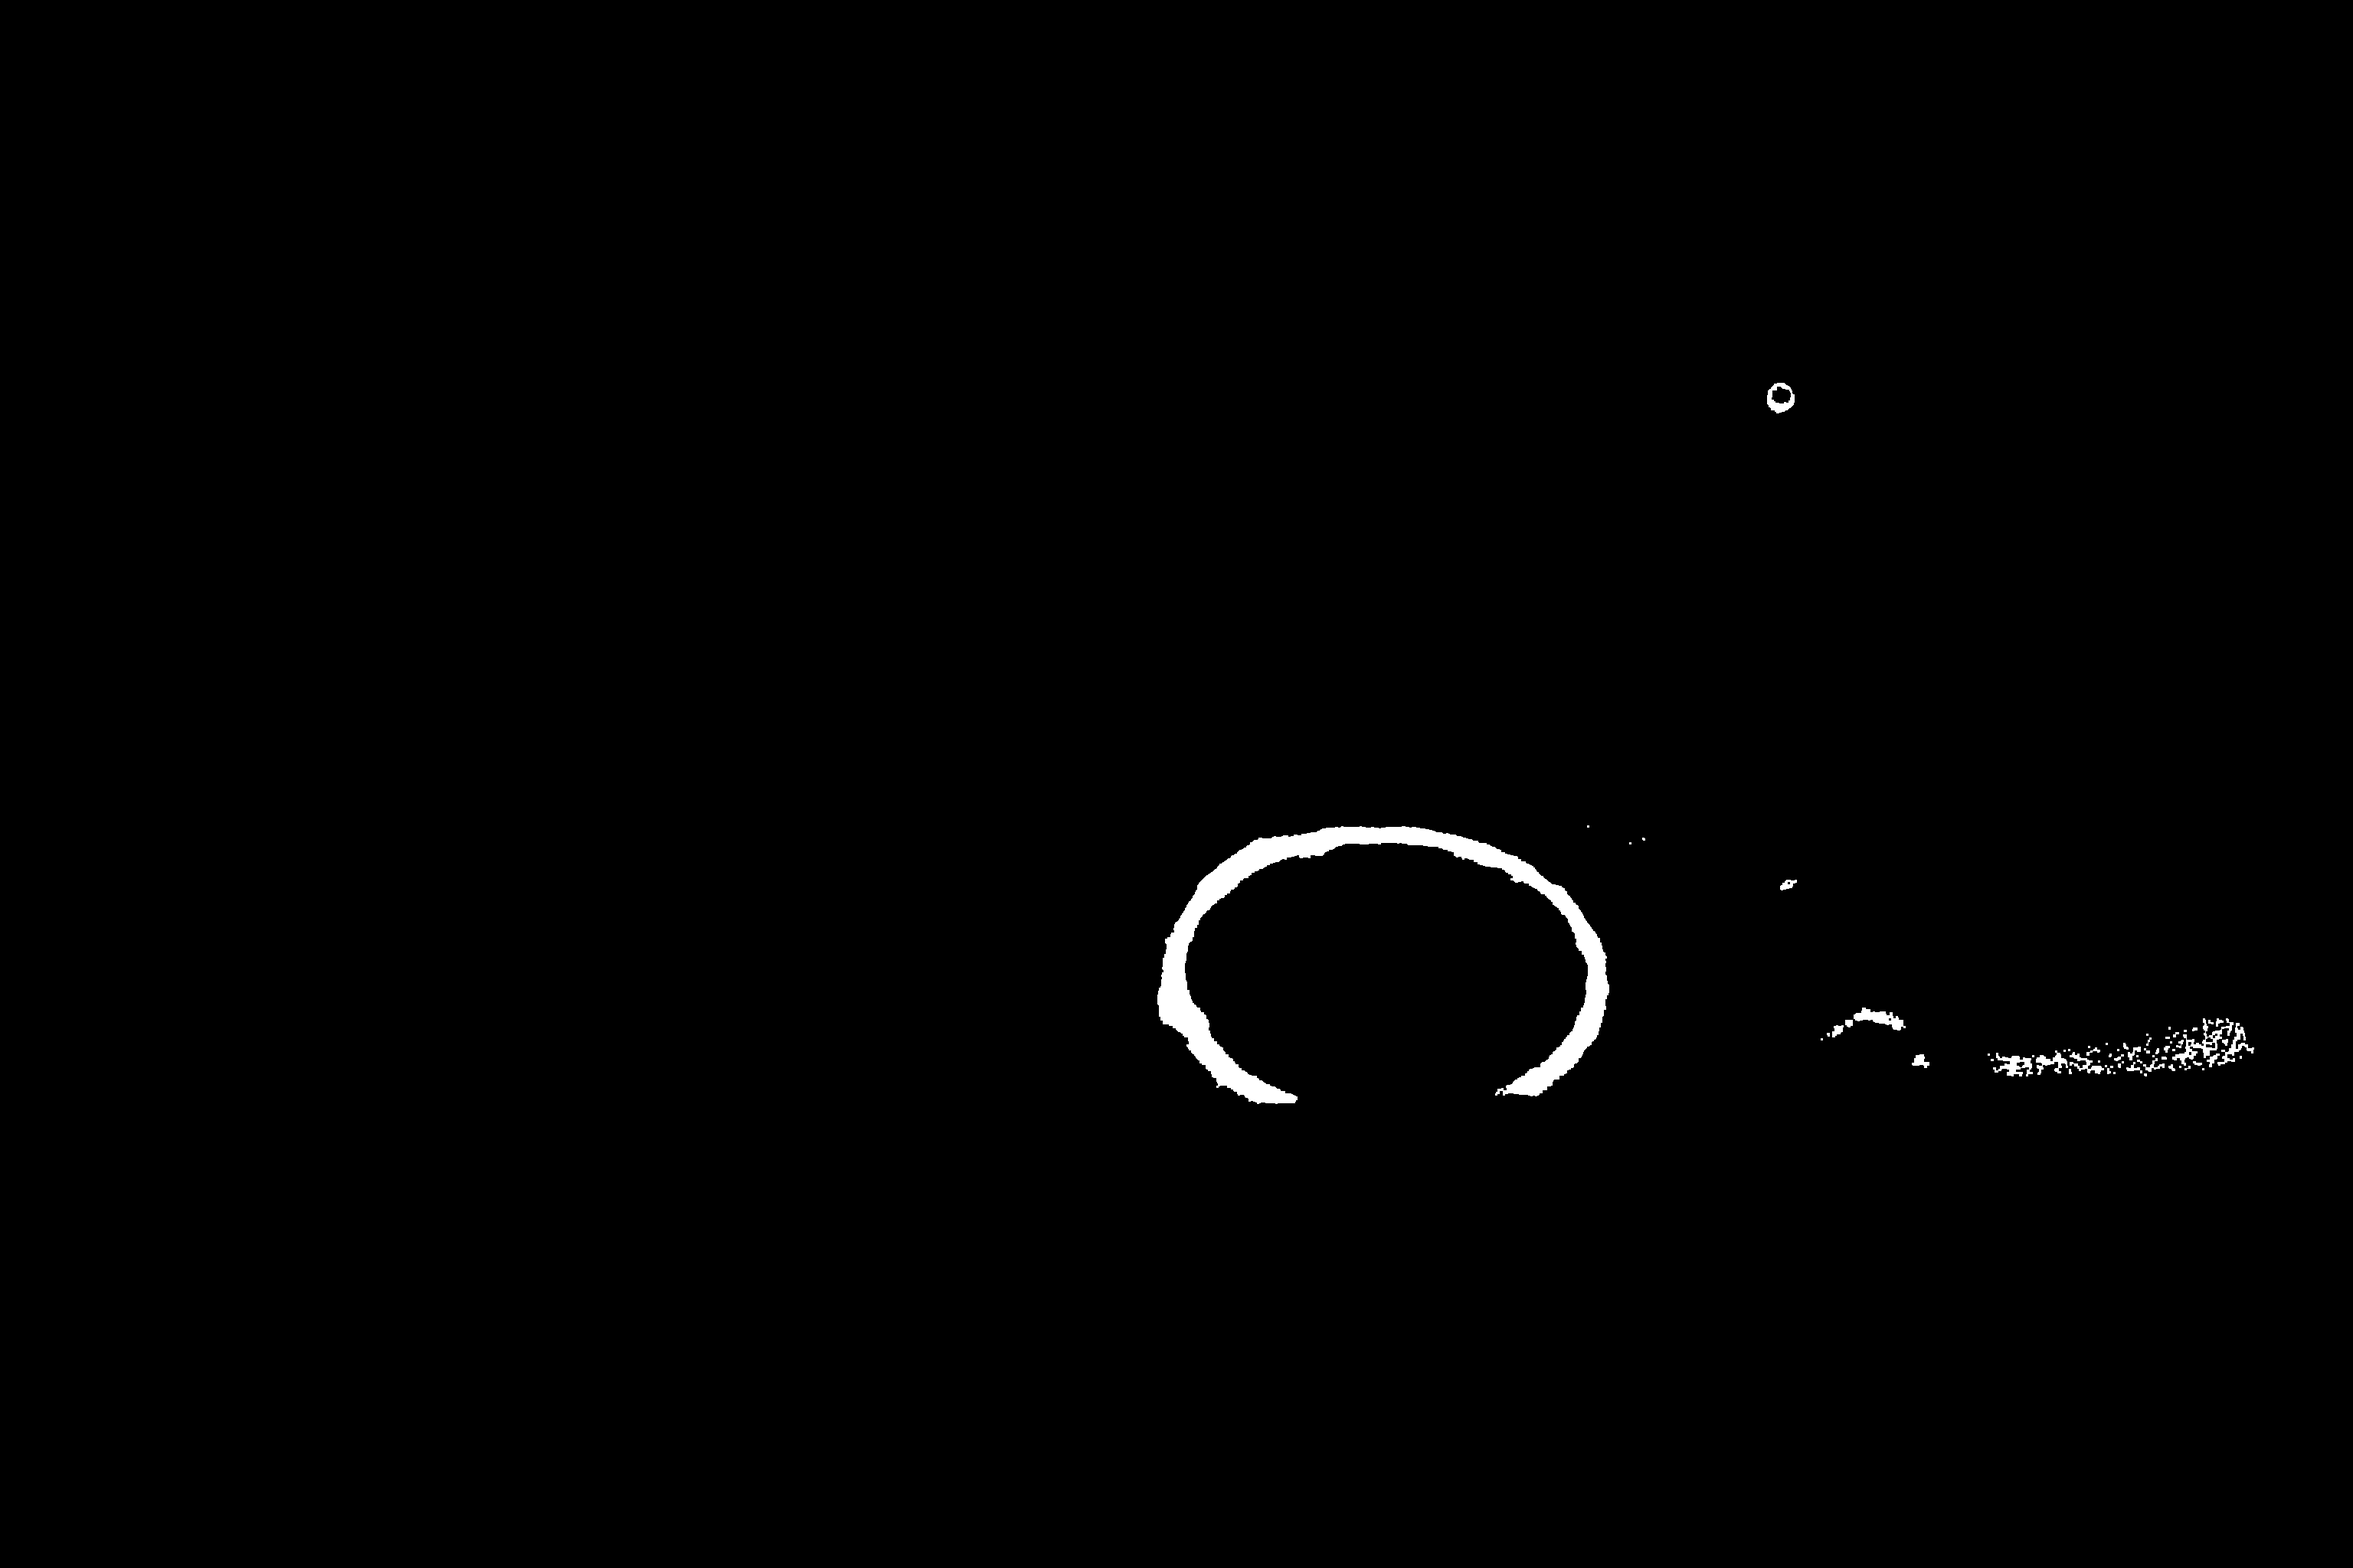
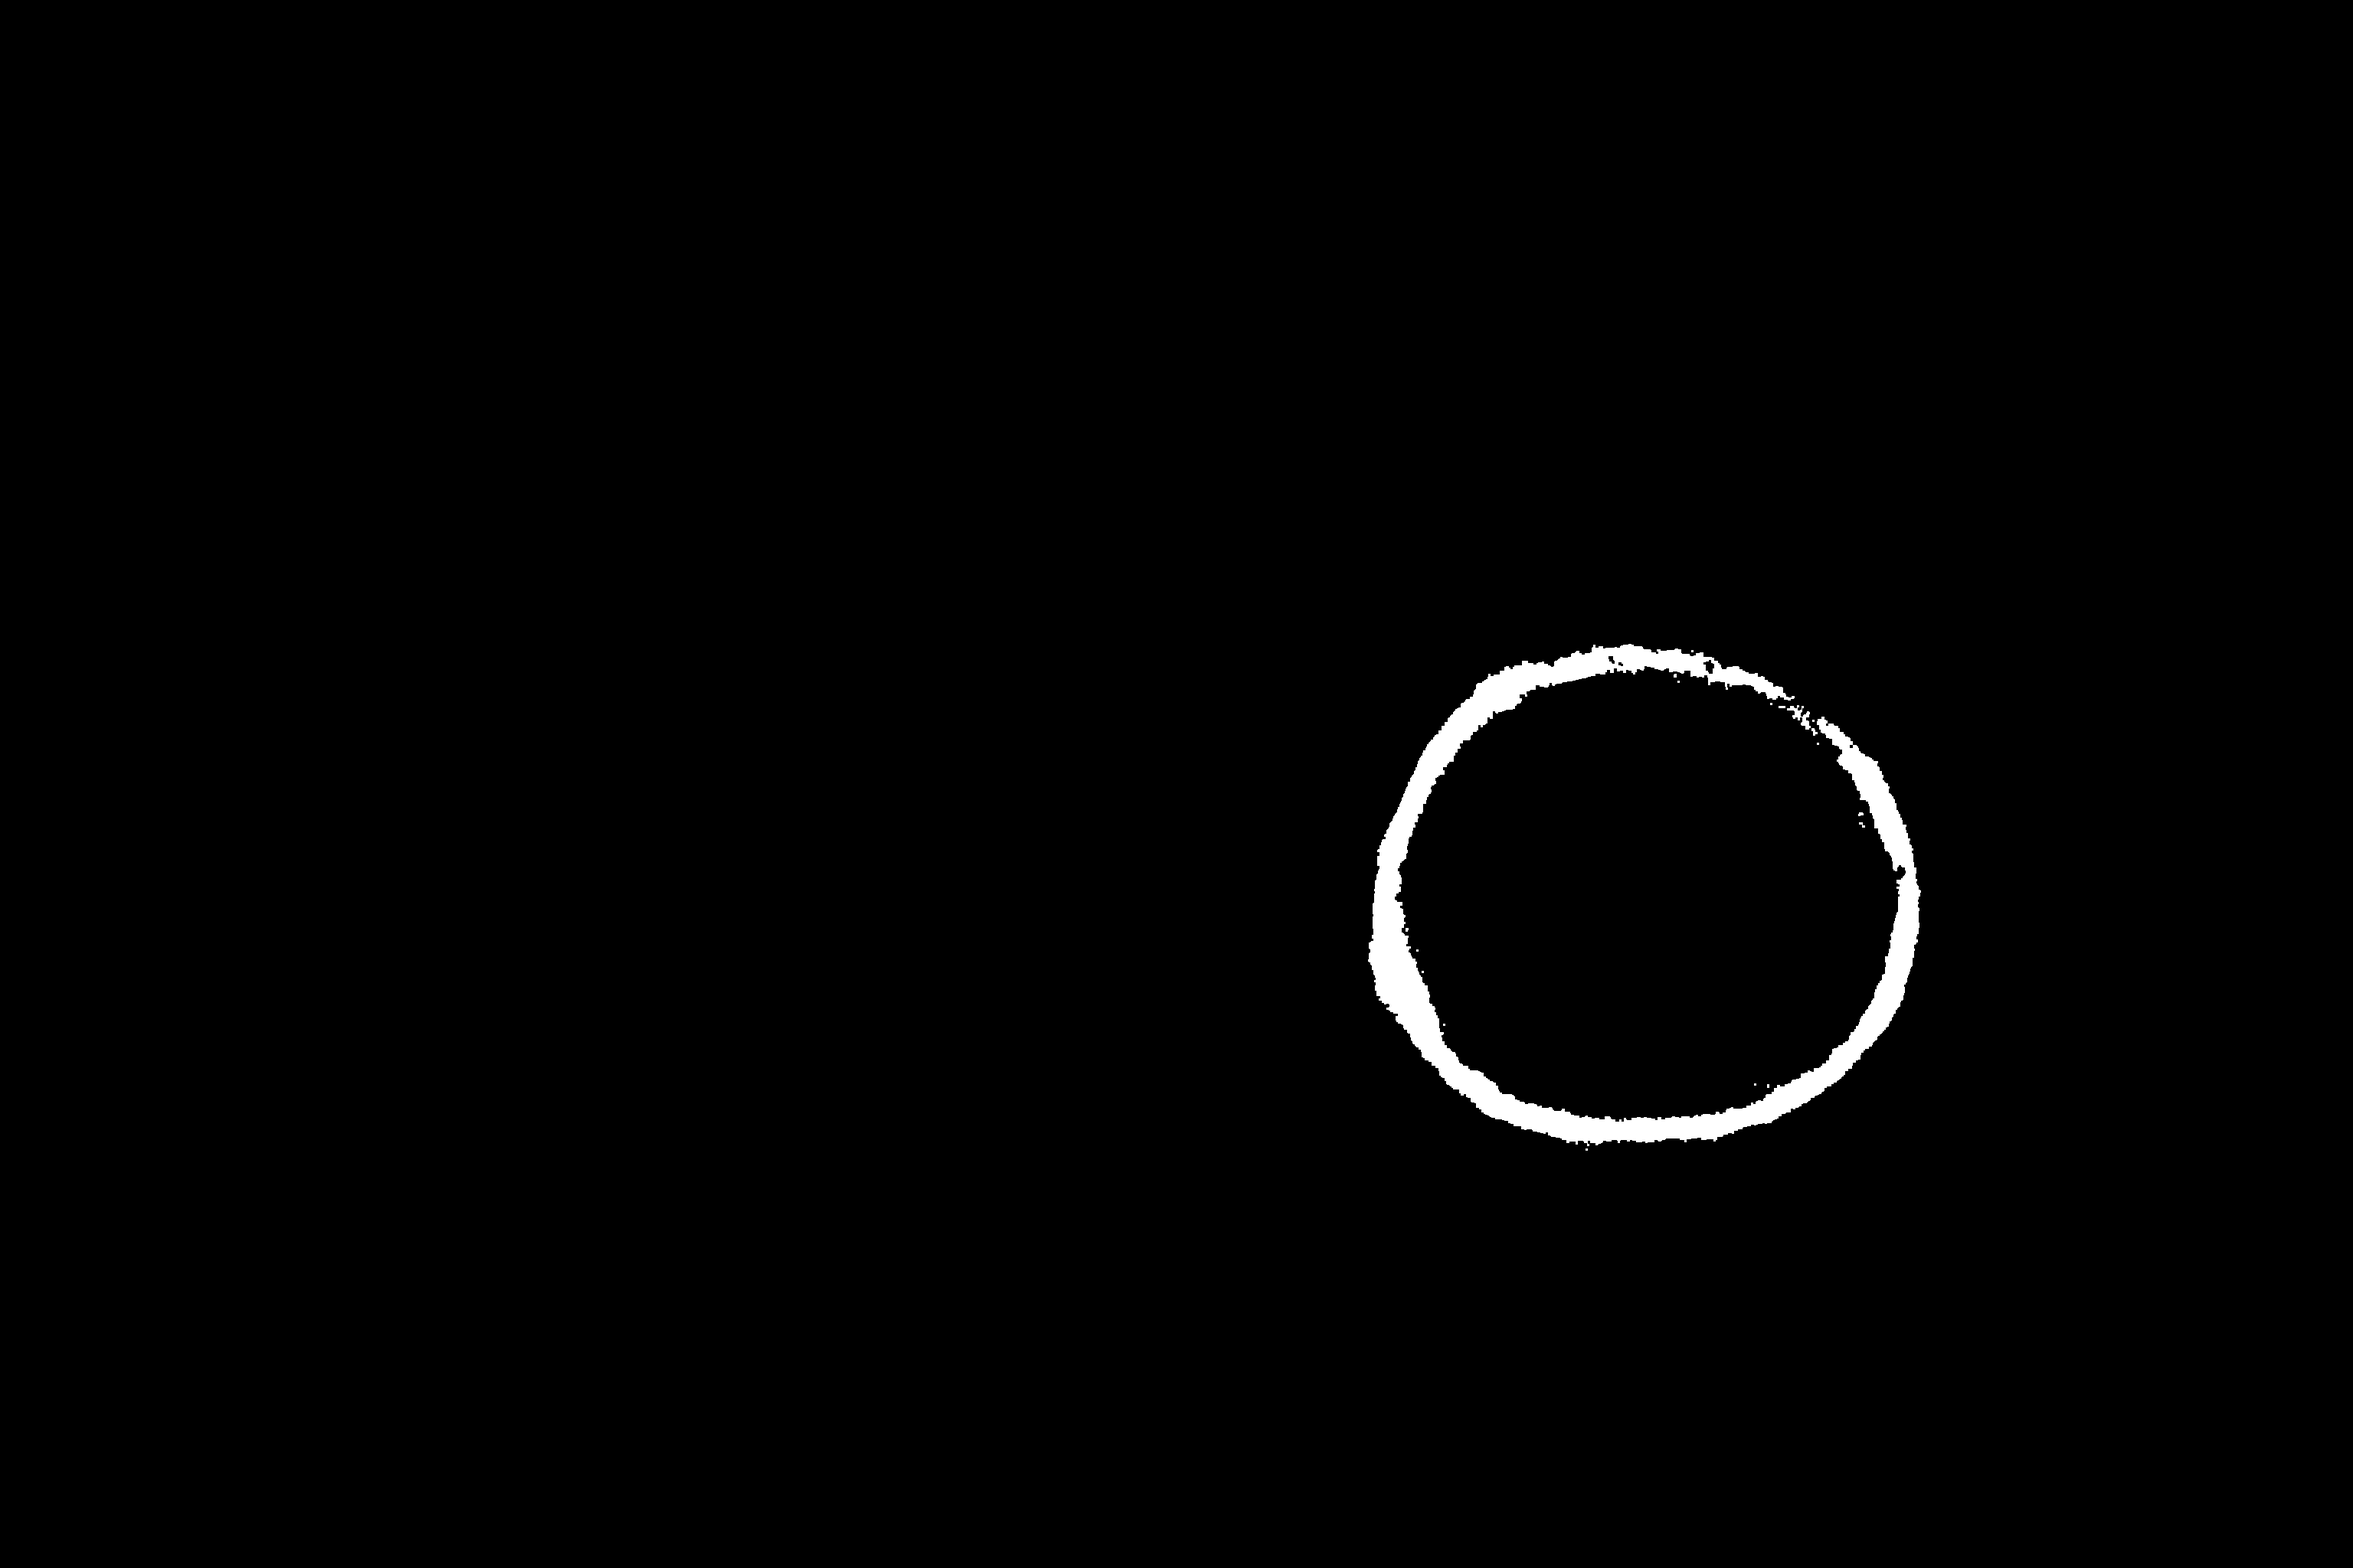
Final demo - the executed file is in scripts/planar_throw_final.py

diff --git a/scripts/planar_throw_final.py b/scripts/planar_throw_final.py
@@ -85,15 +85,15 @@ def solve_planar_throw(target_pos):
     # Format: [q2, q4, q6, T]
     initial_guesses = [
         np.array([0.0, -1.5, 1.5, 0.5]),   # 1. Default: Neutral
-        np.array([-0.5, -1.0, 1.0, 0.4]),  # 2. Cocked back: Faster throw
-        np.array([0.5, -1.5, 0.5, 0.6]),   # 3. Forward release: Higher arc
-        np.array([0.0, -1.0, 2.0, 0.3]),   # 4. Different elbow config
-        np.array([-0.8, -0.8, 0.8, 0.4]),  # 5. More aggressive back swing
-        np.array([0.2, -1.8, 1.8, 0.7]),   # 6. High lob
-        np.array([-0.3, -1.2, 1.8, 0.5]),  # 7. New guess
-        np.array([0.3, -1.6, 1.2, 0.6]),   # 8. New guess
-        np.array([-0.6, -0.9, 1.5, 0.45]), # 9. New guess
-        np.array([0.1, -1.4, 2.0, 0.55])   # 10. New guess
+        # np.array([-0.5, -1.0, 1.0, 0.4]),  # 2. Cocked back: Faster throw
+        # np.array([0.5, -1.5, 0.5, 0.6]),   # 3. Forward release: Higher arc
+        # np.array([0.0, -1.0, 2.0, 0.3]),   # 4. Different elbow config
+        # np.array([-0.8, -0.8, 0.8, 0.4]),  # 5. More aggressive back swing
+        # np.array([0.2, -1.8, 1.8, 0.7]),   # 6. High lob
+        # np.array([-0.3, -1.2, 1.8, 0.5]),  # 7. New guess
+        # np.array([0.3, -1.6, 1.2, 0.6]),   # 8. New guess
+        # np.array([-0.6, -0.9, 1.5, 0.45]), # 9. New guess
+        # np.array([0.1, -1.4, 2.0, 0.55])   # 10. New guess
     ]
     
     # Bounds
@@ -466,13 +466,17 @@ if __name__ == "__main__":
     detector.initialize_camera()
     x, y = detector.get_ball_position(display=False) 
     # Test case
-    target = [x,y,0.0]
+    target = [x/ 1000, y/ 1000, 0.0] 
+    
+    if(target[1] > 1.2):
+        target[1] = 1.2
+    
+    # target = [1.212, 0.153, 0.0]
+    # target = [1.128, -0.41, 0.0]
+    # dis = 1.2
+    # th = - np.pi / 12
+    # target = [dis*np.cos(th), dis*np.sin(th), 0]
     print(target)
-    target = [1.212, 0.153, 0.0]
-    target = [1.128, -0.41, 0.0]
-    dis = 1.2
-    th = - np.pi / 12
-    target = [dis*np.cos(th), dis*np.sin(th), 0]
     if len(sys.argv) > 3:
         target = [float(sys.argv[1]), float(sys.argv[2]), float(sys.argv[3])]
 

diff --git a/scripts/HIK/ball_detector.py b/scripts/HIK/ball_detector.py
@@ -286,29 +286,29 @@ class BallDetector:
             print("[INFO] 相机资源已释放")
 
 # # -------------------- 主函数（测试用） --------------------
-# def main():
-#     """主函数，用于测试"""
-#     detector = BallDetector()
+def main():
+    """主函数，用于测试"""
+    detector = BallDetector()
     
-#     try:
-#         # 初始化相机
-#         if not detector.initialize_camera():
-#             return
+    try:
+        # 初始化相机
+        if not detector.initialize_camera():
+            return
         
-#         # 获取小球位置（显示图像窗口）
-#         relative_x, relative_y = detector.get_ball_position(display=True)
+        # 获取小球位置（显示图像窗口）
+        relative_x, relative_y = detector.get_ball_position(display=True)
         
-#         if relative_x is not None and relative_y is not None:
-#             print(f"[RESULT] 最终结果: relative_x = {relative_x:.2f}, relative_y = {relative_y:.2f}")
-#         else:
-#             print("[RESULT] 未获取到有效结果")
+        if relative_x is not None and relative_y is not None:
+            print(f"[RESULT] 最终结果: relative_x = {relative_x:.2f}, relative_y = {relative_y:.2f}")
+        else:
+            print("[RESULT] 未获取到有效结果")
             
-#     except Exception as e:
-#         print(f"[ERROR] 程序运行出错: {e}")
+    except Exception as e:
+        print(f"[ERROR] 程序运行出错: {e}")
         
-#     finally:
-#         # 确保资源被释放
-#         detector.close()
+    finally:
+        # 确保资源被释放
+        detector.close()
 
-# if __name__ == "__main__":
-#     main()
+if __name__ == "__main__":
+    main()

diff --git a/scripts/HIK/MvCameraControl_class.py b/scripts/HIK/MvCameraControl_class.py
@@ -41,12 +41,11 @@ def check_sys_and_update_dll():
     
     if currentsystem == 'Windows':
         #print(" current is windows system .")
-        MvCamCtrldllPath = "D:/sdcwork/franka_sdc/scripts/HIK/lib/MvCameraControl.dll"
-        MvCamCtrldll = ctypes.cdll.LoadLibrary(MvCamCtrldllPath)
-        # if "winmode" in ctypes.WinDLL.__init__.__code__.co_varnames:
-        #     MvCamCtrldll = WinDLL(MvCamCtrldllPath, winmode=0)
-        # else:
-        #     MvCamCtrldll = WinDLL(MvCamCtrldllPath)
+        MvCamCtrldllPath = "MvCameraControl.dll"
+        if "winmode" in ctypes.WinDLL.__init__.__code__.co_varnames:
+            MvCamCtrldll = WinDLL(MvCamCtrldllPath, winmode=0)
+        else:
+            MvCamCtrldll = WinDLL(MvCamCtrldllPath)
     else:
         architecture = platform.machine()
         if architecture == 'aarch64':

diff --git a/scripts/planar_throw.py b/scripts/planar_throw.py
@@ -454,7 +454,7 @@ def generate_full_trajectory(q_release, dq_release):
 
 if __name__ == "__main__":
     # Test case
-    target = [1.212, 0.153, 0.0]
+    target = [1.25, 0, 0.0]
     # target = [1.128, -0.41, 0.0]
     # dis = 1.2
     # th = - np.pi / 12
